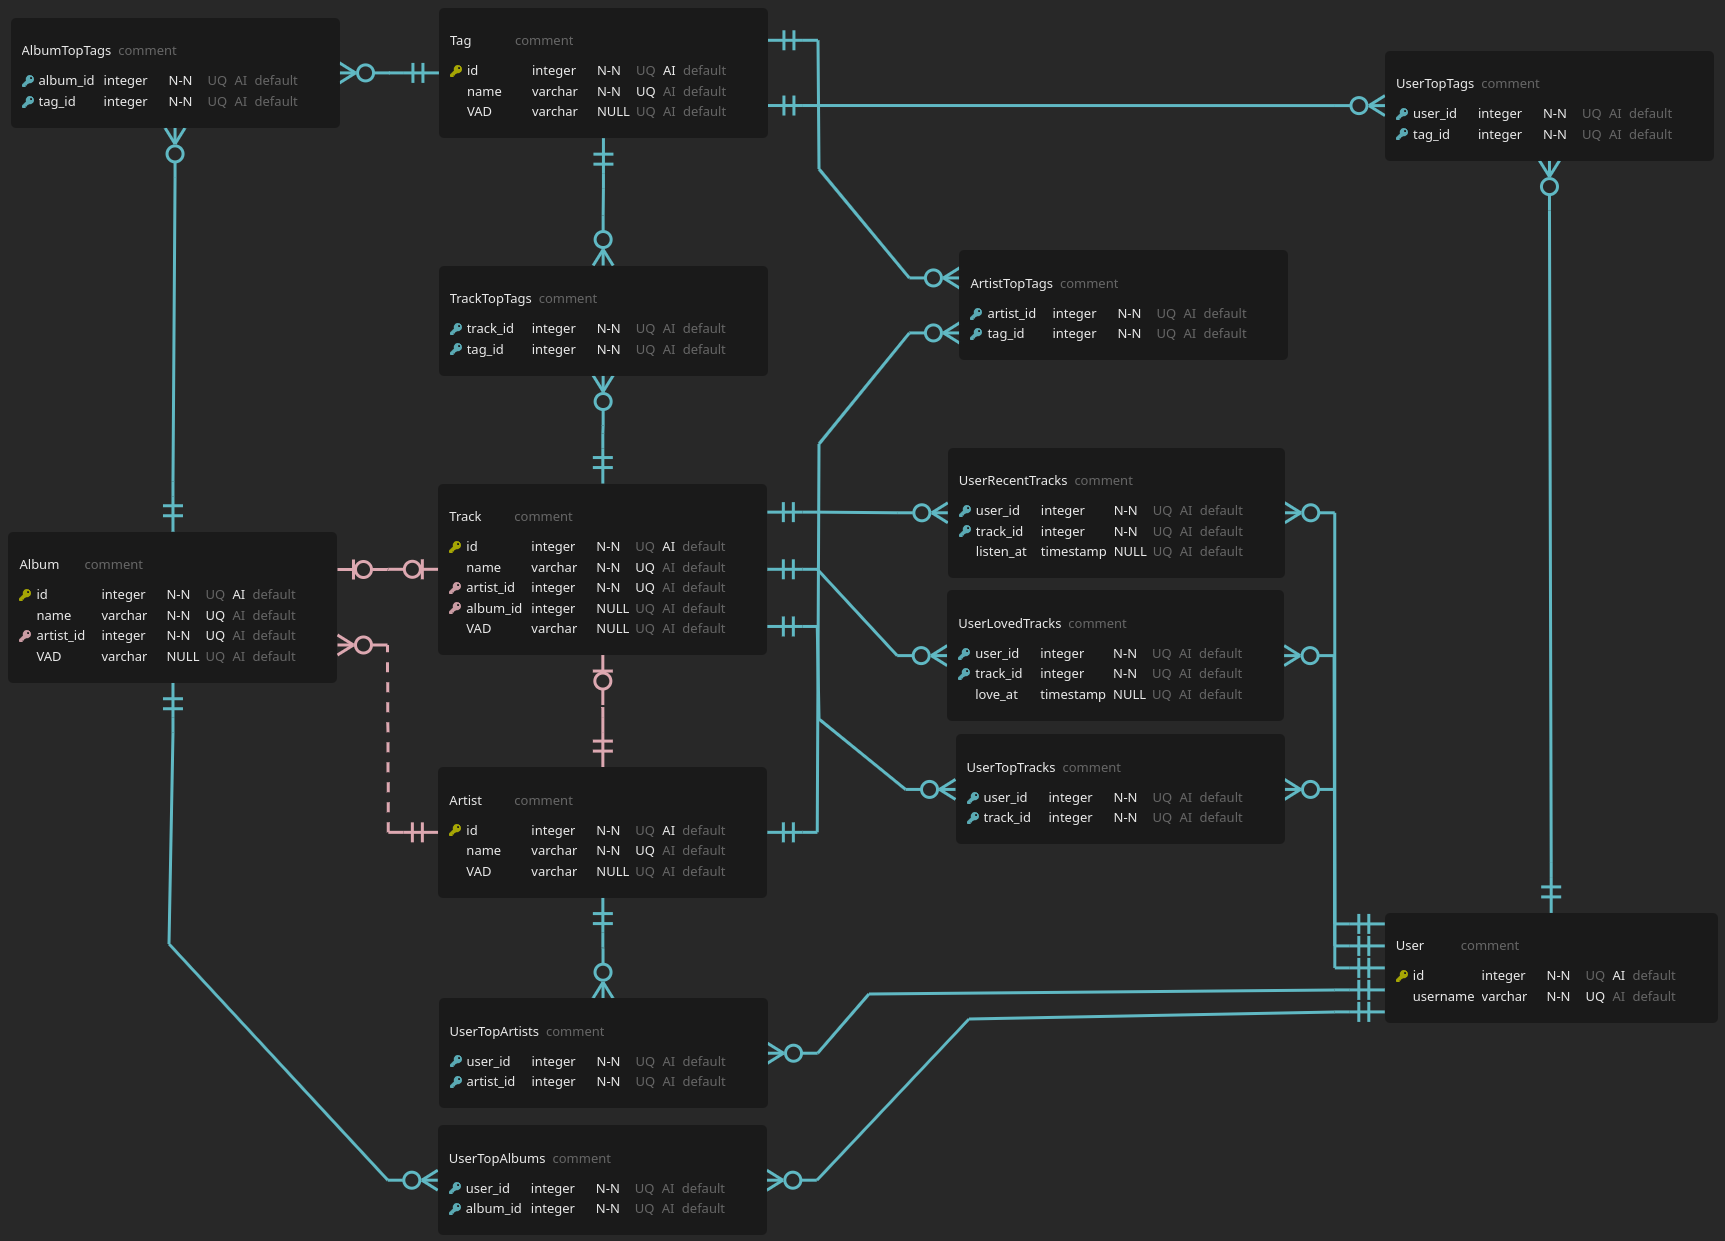
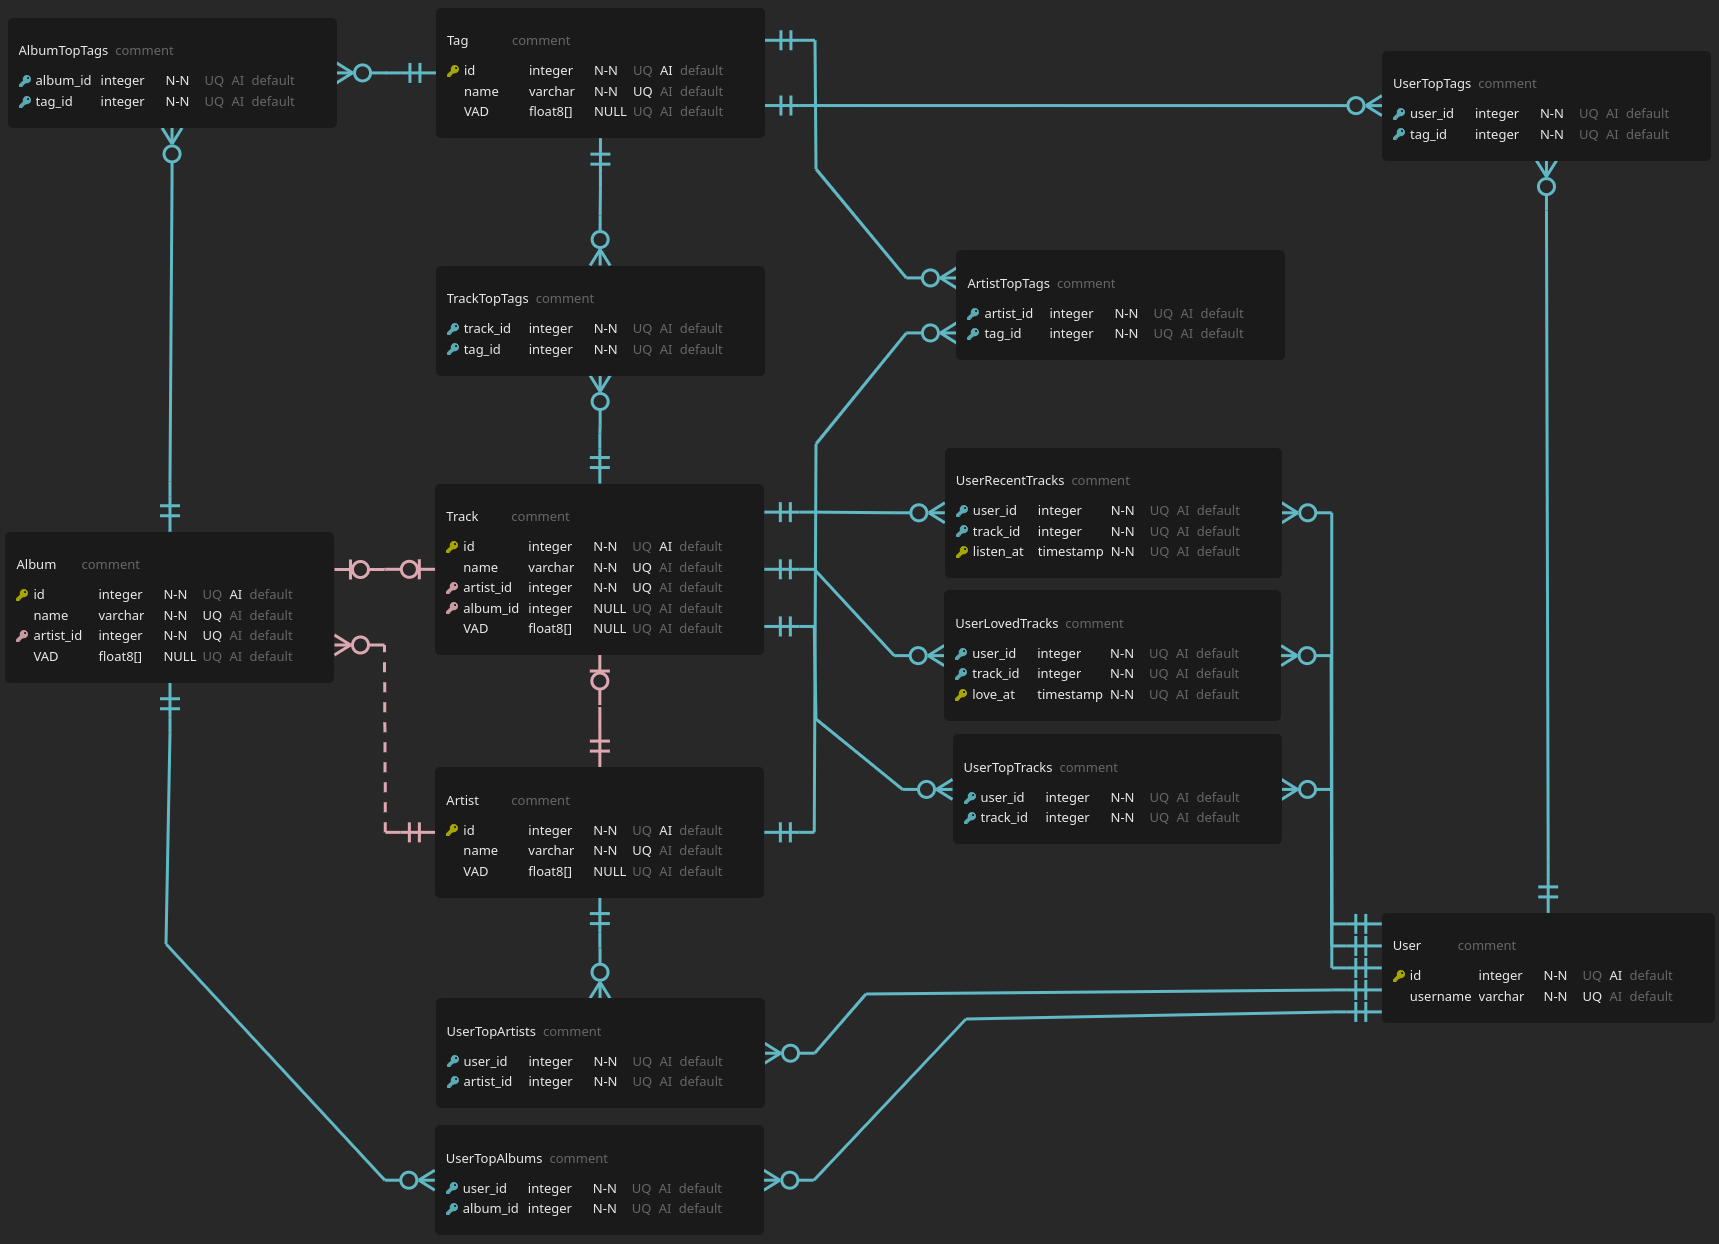
Finished data insertion script

diff --git a/lastfm_RS/backend/src/insert_lastfm_data.py b/lastfm_RS/backend/src/insert_lastfm_data.py
@@ -1,4 +1,5 @@
-from sqlalchemy import create_engine, inspect, text, MetaData, select
+from sqlalchemy import create_engine, inspect, text, MetaData, select, Table
+from datetime import datetime
 import json
 
 DATA_FOLDER = '../data/lastfm_data'
@@ -9,7 +10,7 @@ db = create_engine(
     "postgresql://alumnodb:alumnodb@localhost:5432/lastfm_db", client_encoding="UTF-8")
 
 
-def table(name):
+def table(name) -> Table:
     return metadata.tables[name]
 
 
@@ -29,7 +30,7 @@ def setup_db(engine):
             conn.execute(query)
 
 
-def insert_items(engine, filename, insert_fun):
+def insert_items(engine, filename, insert_fun, **kwargs):
     with open(f"{DATA_FOLDER}/{filename}", encoding='utf-8') as f:
         if filename.endswith('.json'):
             items = json.load(f)
@@ -37,49 +38,139 @@ def insert_items(engine, filename, insert_fun):
             items = [item.strip() for item in f.readlines()]
 
     with engine.connect() as conn:
-        insert_fun(items, conn)
-
-
-def format_vads(vads_float: list[float]):
-    return "{" + ','.join([str(s) for s in vads_float]) + "}"
+        if kwargs:
+            insert_fun(items, conn, kwargs=kwargs)
+        else:
+            insert_fun(items, conn)
 
 
 def tag_insert(tag_vads, conn):
     stmts = list()
     for tag, vads in tag_vads.items():
-        vads = format_vads(vads)
         stmts.append({'name': tag, 'vad': vads})
     conn.execute(table('tag').insert(), stmts)
 
 
 def artist_insert(item_vads, conn):
     stmts = list()
+    inserted = set()
     artist_vads = item_vads["Artists"]
     for artist, vads in artist_vads.items():
-        vads = format_vads(vads)
-        stmts.append({'name': artist, 'vad': vads})
+        if artist.lower() not in inserted:
+            inserted.add(artist.lower())
+            stmts.append({'name': artist, 'vad': vads})
     conn.execute(table('artist').insert(), stmts)
 
 
 def album_insert(item_vads, conn):
     stmts = list()
+    inserted = set()
     album_vads = item_vads["Albums"]
     for album, vads in album_vads.items():
-        vads = format_vads(vads)
-        album_name, artist_name = album.split(SEPARATOR)
-        # Query artist.id
-        artist_id = conn.execute(select(table('artist').c.id).where(
-            table('artist').c.name == artist_name)).one()[0]
-        stmts.append({'name': album_name, 'artist_id': artist_id, 'vad': vads})
+        if album.lower() not in inserted:
+            inserted.add(album.lower())
+            album_name, artist_name = album.split(SEPARATOR)
+            artist_id = artist_ids[artist_name.lower()]
+            stmts.append(
+                {'name': album_name, 'artist_id': artist_id, 'vad': vads})
     conn.execute(table('album').insert(), stmts)
 
 
+def track_insert(item_vads, conn):
+    stmts = list()
+    inserted = set()
+    track_vads = item_vads["Tracks"]
+    for track, vads in track_vads.items():
+        if track.lower() not in inserted:
+            inserted.add(track.lower())
+            track_name, artist_name, album_name = track.split(SEPARATOR)
+            artist_id = artist_ids[artist_name.lower()]
+            if album_name:
+                album_id = album_ids[SEPARATOR.join(
+                    (album_name.lower(), artist_name.lower()))]
+            else:
+                album_id = None
+            stmts.append({'name': track_name, 'artist_id': artist_id,
+                          'album_id': album_id, 'vad': vads})
+    conn.execute(table('track').insert(), stmts)
+
+
+def user_insert(users, conn):
+    stmts = list()
+    for user in users:
+        stmts.append({'username': user})
+    conn.execute(table('user_').insert(), stmts)
+
+
+def item_tag_insert(item_tags, conn):
+    map_items = {"Albums": (album_ids, "albumtoptags"),
+                 "Artists": (artist_ids, "artisttoptags"),
+                 "Tracks": (track_ids, "tracktoptags")}
+
+    for item_type, item_dict in item_tags.items():
+        stmts = list()
+        table_id = None
+        inserted = set()
+        for item, tags in item_dict.items():
+            item_split = item.split(SEPARATOR)
+            if len(item_split) > 1:
+                key = SEPARATOR.join(
+                    (item_split[0].lower(), item_split[1].lower()))
+            else:
+                key = item_split[0].lower()
+
+            if key not in inserted:
+                inserted.add(key)
+                id_dict, table_id = map_items[item_type]
+                id_key = item_type.lower()[:-1] + "_id"
+                tags = {tag.lower() for tag in tags}
+                for tag in tags:
+                    stmts.append(
+                        {id_key: id_dict[key], 'tag_id': tag_ids[tag.lower()]})
+        conn.execute(table(table_id).insert(), stmts)
+
+
+def top_item_insert(top_items, conn, kwargs):
+    stmts = list()
+    table_name = kwargs['table_name']
+    id_dict = kwargs['id_dict']
+    id_key = kwargs['id_key']
+    for user, items in top_items.items():
+        user_id = user_ids[user.lower()]
+        inserted = set()
+        for item in items:
+            item_key = item.lower()
+            if item_key not in inserted and item_key in id_dict:
+                inserted.add(item_key)
+                stmts.append({'user_id': user_id, id_key: id_dict[item_key]})
+    conn.execute(table(table_name).insert(), stmts)
+
+
+def track_timestamp_insert(tracks, conn, kwargs):
+    stmts = list()
+    table_name = kwargs['table_name']
+    timestamp_col = kwargs['timestamp_col']
+    for user, items in tracks.items():
+        user_id = user_ids[user.lower()]
+        inserted = set()
+        for item in items:
+            if item.lower() not in inserted:
+                inserted.add(item.lower())
+                item_split = item.split(SEPARATOR)
+                key = SEPARATOR.join(
+                    (item_split[0].lower(), item_split[1].lower()))
+                stmts.append({'user_id': user_id,
+                              'track_id': track_ids[key],
+                              timestamp_col: datetime.utcfromtimestamp(int(item_split[2]))})
+    conn.execute(table(table_name).insert(), stmts)
+
+
 if __name__ == "__main__":
-    global metadata
+    global metadata, tag_ids, artist_ids, album_ids, track_ids, user_ids
 
     # Create tables and relations using SQL script
     if not table_exists(db, 'track'):
-        print('Creating tables... ', end='')
+        print('Creating tables... ', end='', flush=True)
         setup_db(db)
         print('SUCCESS')
 
@@ -88,25 +179,116 @@ if __name__ == "__main__":
     metadata.reflect(bind=db)
 
     # Insert tags if empty
-    print('Inserting tags... ', end='')
+    print('Inserting tags... ', end='', flush=True)
     if is_table_empty(table('tag')):
         insert_items(db, 'tag_vads.json', tag_insert)
         print('SUCCESS')
     else:
         print('ALREADY_EXECUTED')
 
+    with db.connect() as conn:
+        tag_ids = {tag.lower(): t_id for tag, t_id in conn.execute(
+            select(table('tag').c.name, table('tag').c.id))}
+
     # Insert artists if empty
-    print('Inserting artists... ', end='')
+    print('Inserting artists... ', end='', flush=True)
     if is_table_empty(table('artist')):
         insert_items(db, 'item_vads.json', artist_insert)
         print('SUCCESS')
     else:
         print('ALREADY_EXECUTED')
 
+    with db.connect() as conn:
+        artist_ids = {artist.lower(): a_id for artist, a_id in conn.execute(
+            select(table('artist').c.name, table('artist').c.id))}
+        artist_names = {v: k for k, v in artist_ids.items()}
+
     # Insert albums if empty
-    print('Inserting albums... ', end='')
+    print('Inserting albums... ', end='', flush=True)
     if is_table_empty(table('album')):
         insert_items(db, 'item_vads.json', album_insert)
+        print('SUCCESS')
+    else:
+        print('ALREADY_EXECUTED')
+
+    with db.connect() as conn:
+        album_ids = {SEPARATOR.join((album.lower(), artist_names[artist].lower())): a_id for album, artist, a_id in conn.execute(
+            select(table('album').c.name, table('album').c.artist_id, table('album').c.id))}
+
+    # Insert tracks if empty
+    print('Inserting tracks... ', end='', flush=True)
+    if is_table_empty(table('track')):
+        insert_items(db, 'item_vads.json', track_insert)
+        print('SUCCESS')
+    else:
+        print('ALREADY_EXECUTED')
+
+    with db.connect() as conn:
+        track_ids = {SEPARATOR.join((track.lower(), artist_names[artist].lower())): t_id for track, artist, t_id in conn.execute(
+            select(table('track').c.name, table('track').c.artist_id, table('track').c.id))}
+
+    # Insert users if empty
+    print('Inserting users... ', end='', flush=True)
+    if is_table_empty(table('user_')):
+        insert_items(db, 'unique_listeners.dat', user_insert)
+        print('SUCCESS')
+    else:
+        print('ALREADY_EXECUTED')
+
+    with db.connect() as conn:
+        user_ids = {user.lower(): u_id for user, u_id in conn.execute(
+            select(table('user_').c.username, table('user_').c.id))}
+
+    # Insert items tags if empty
+    print('Inserting items tags... ', end='', flush=True)
+    if is_table_empty(table('albumtoptags')) or is_table_empty(
+            table('artisttoptags')) or is_table_empty(table('tracktoptags')):
+        insert_items(db, 'item_tags.json', item_tag_insert)
+        print('SUCCESS')
+    else:
+        print('ALREADY_EXECUTED')
+
+    # Insert users' top tracks if empty
+    print('Inserting users top tracks... ', end='', flush=True)
+    if is_table_empty(table('usertoptracks')):
+        insert_items(db, 'top_tracks.json', top_item_insert,
+                     table_name='usertoptracks', id_dict=track_ids, id_key='track_id')
+        print('SUCCESS')
+    else:
+        print('ALREADY_EXECUTED')
+
+    # Insert users' top albums if empty
+    print('Inserting users top albums... ', end='', flush=True)
+    if is_table_empty(table('usertopalbums')):
+        insert_items(db, 'top_albums.json', top_item_insert,
+                     table_name='usertopalbums', id_dict=album_ids, id_key='album_id')
+        print('SUCCESS')
+    else:
+        print('ALREADY_EXECUTED')
+
+    # Insert users' top artists if empty
+    print('Inserting users top artists... ', end='', flush=True)
+    if is_table_empty(table('usertopartists')):
+        insert_items(db, 'top_artists.json', top_item_insert,
+                     table_name='usertopartists', id_dict=artist_ids, id_key='artist_id')
+        print('SUCCESS')
+    else:
+        print('ALREADY_EXECUTED')
+
+    # Insert users' recent tracks if empty
+    print('Inserting users recent tracks... ', end='', flush=True)
+    if is_table_empty(table('userrecenttracks')):
+        insert_items(db, 'recent_tracks.json', track_timestamp_insert,
+                     table_name='userrecenttracks', timestamp_col='listen_at')
+        print('SUCCESS')
+    else:
+        print('ALREADY_EXECUTED')
+
+    # Insert users' loved tracks if empty
+    print('Inserting users loved tracks... ', end='', flush=True)
+    if is_table_empty(table('userlovedtracks')):
+        insert_items(db, 'loved_tracks.json', track_timestamp_insert,
+                     table_name='userlovedtracks', timestamp_col='love_at')
         print('SUCCESS')
     else:
         print('ALREADY_EXECUTED')

diff --git a/lastfm_RS/backend/src/get_lastfm_data.py b/lastfm_RS/backend/src/get_lastfm_data.py
@@ -87,7 +87,7 @@ def get_tag_top_artists(tags):
 
 
 def get_track_info(track: pylast.Track):
-    artist = track.get_artist().get_name()
+    artist = track.get_artist().get_name(properly_capitalized=True)
     try:
         album = track.get_album()
     except pylast.WSError as e:
@@ -99,7 +99,7 @@ def get_track_info(track: pylast.Track):
         album = None
 
     if album:
-        album = album.get_name()
+        album = album.get_name(properly_capitalized=True)
     else:
         album = ''
     unique_track = (track.get_name(), artist, album)
@@ -400,7 +400,7 @@ if __name__ == "__main__":
                     try:
                         for album in user.get_top_albums(limit=ALBUM_LIMIT):
                             album = album[0]
-                            artist_name = album.get_artist().get_name()
+                            artist_name = album.get_artist().get_name(properly_capitalized=True)
                             album_name = album.get_name()
                             unique_artists.add(artist_name)
                             unique_albums.add(SEPARATOR.join(
